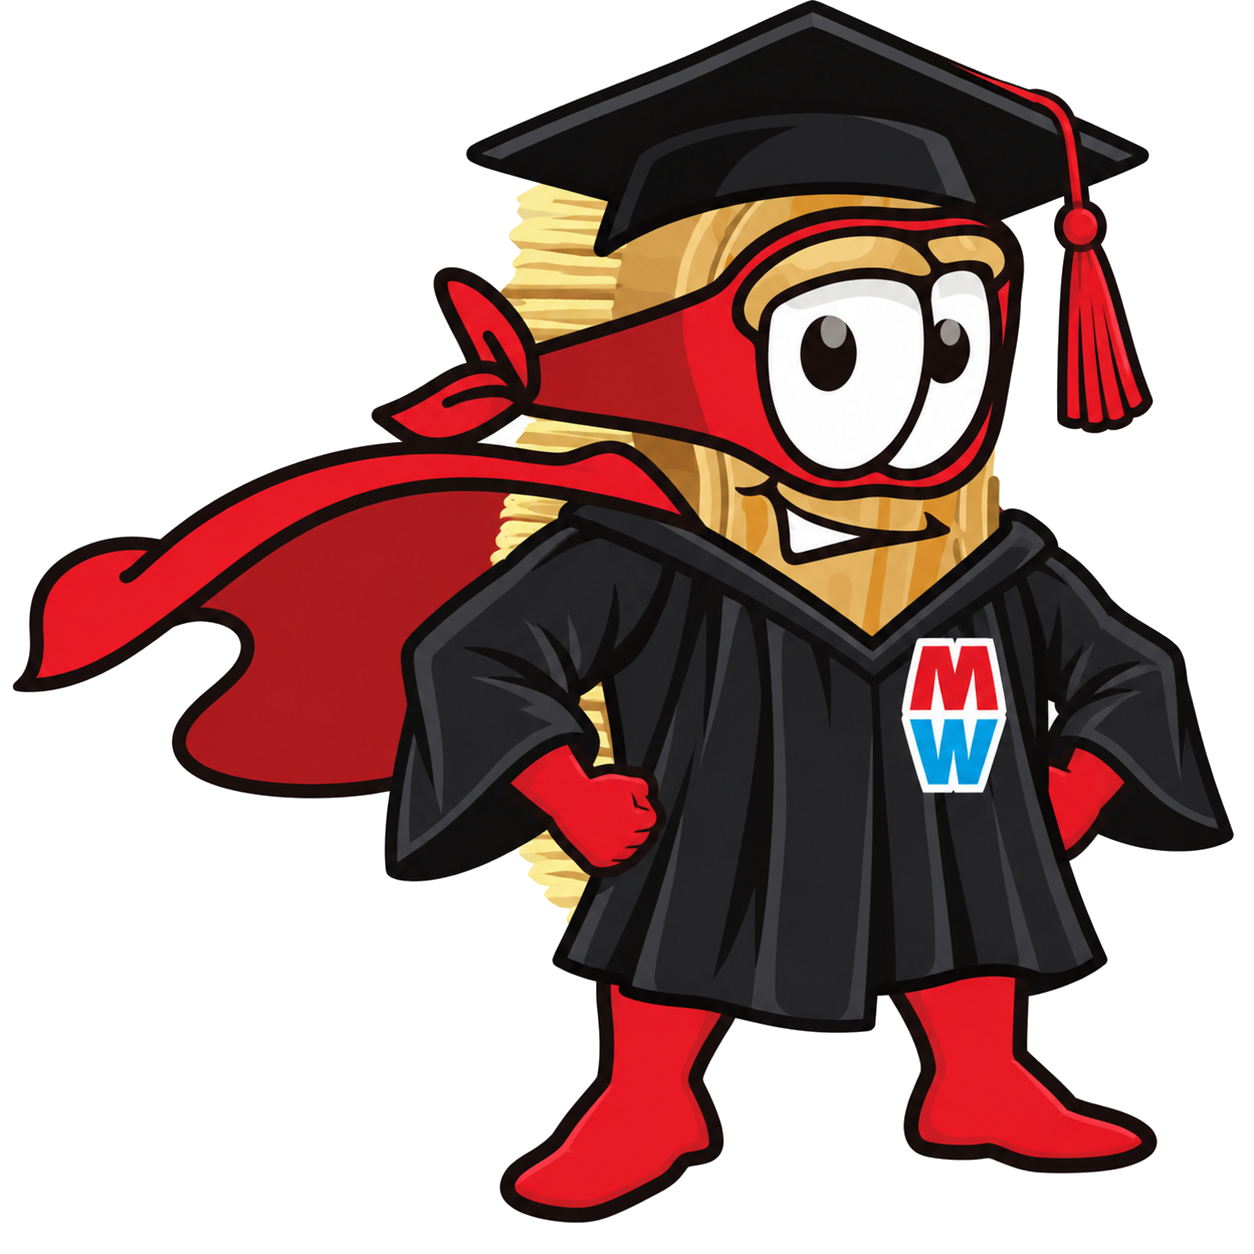
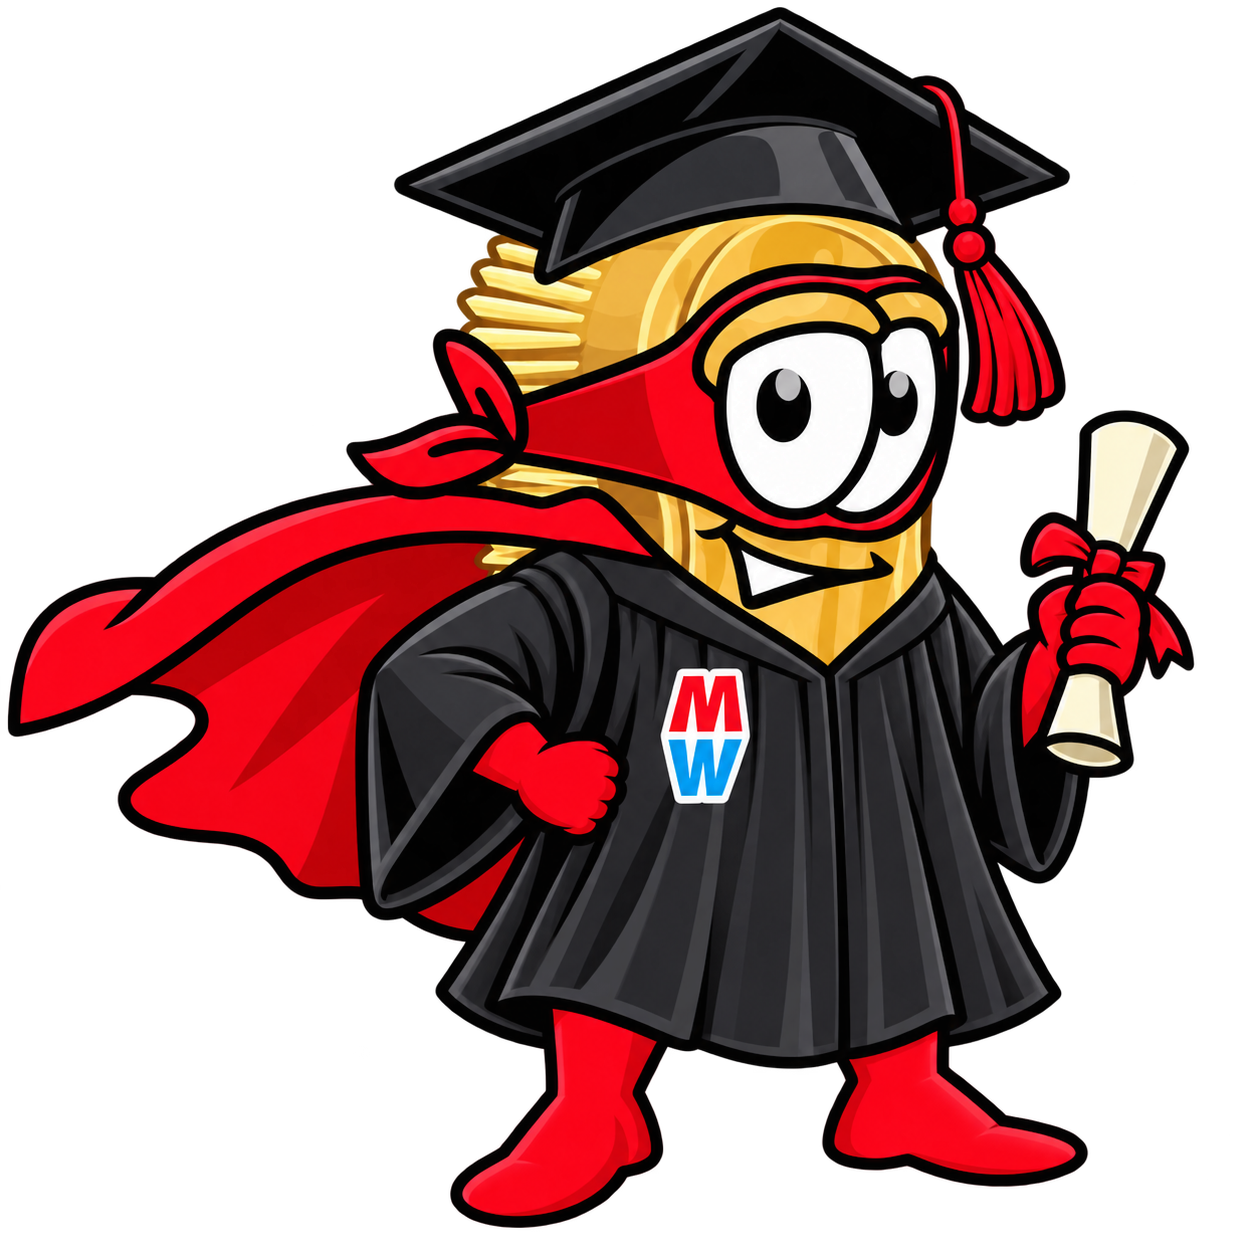
Rename Training to "Mighty Wash Academy" (MW) + new diploma mascot
- Per-account nav label override: navItemLabel() renders the Training
  item as "Mighty Wash Academy" for the Mighty Wash account across the
  sidebar, mobile menu, command palette, bottom-bar picker, and search;
  other tenants keep "Training". Page header title matches.
- Swap the header mascot for the new graduate-with-diploma art (already
  transparent), replacing the previous version at the same path.

diff --git a/src/components/layout/Sidebar.tsx b/src/components/layout/Sidebar.tsx
@@ -91,6 +91,14 @@ type NavGroup = {
   roles?: PermRole[]
 }
 
+// Per-account display-name overrides for specific nav items. The label stored in
+// NAV_GROUPS is the default for every other account.
+const ACADEMY_ACCOUNT_ID = '54f3e299-1f61-4ed2-9921-3d02160b72e6' // Mighty Wash
+export function navItemLabel(item: Pick<NavItem, 'to' | 'label'>, accountId: string | null | undefined): string {
+  if (item.to === '/app/training' && accountId === ACADEMY_ACCOUNT_ID) return 'Mighty Wash Academy'
+  return item.label
+}
+
 export const NAV_GROUPS: NavGroup[] = [
   {
     label: 'Overview',
@@ -634,7 +642,7 @@ export function SidebarNav({
           const groupHit = g.label.toLowerCase().includes(q)
           const filteredItems = groupHit
             ? g.items
-            : g.items.filter((i) => i.label.toLowerCase().includes(q))
+            : g.items.filter((i) => navItemLabel(i, profile?.account_id).toLowerCase().includes(q))
           return { ...g, items: filteredItems }
         })
         .filter((g) => g.items.length > 0)
@@ -687,8 +695,8 @@ export function SidebarNav({
                 to={item.to}
                 end={item.to === '/app/dashboard'}
                 onClick={onNavigate}
-                title={item.label}
-                aria-label={item.label}
+                title={navItemLabel(item, profile?.account_id)}
+                aria-label={navItemLabel(item, profile?.account_id)}
               >
                 {({ isActive }) => (
                   <span
@@ -781,7 +789,7 @@ export function SidebarNav({
                           >
                             <item.icon className="size-[18px]" strokeWidth={2.25} />
                           </span>
-                          {item.label}
+                          {navItemLabel(item, profile?.account_id)}
                         </span>
                       )}
                     </NavLink>
@@ -836,7 +844,7 @@ export function useVisibleNavItems(role: PermRole): VisibleNavItem[] {
     (!i.emails || i.emails.includes((profile?.email ?? '').toLowerCase()))
   return NAV_GROUPS
     .filter((g) => permRoleInList(role, g.roles))
-    .flatMap((g) => g.items.filter(visible).map((i) => ({ to: i.to, label: i.label, icon: i.icon, group: g.label })))
+    .flatMap((g) => g.items.filter(visible).map((i) => ({ to: i.to, label: navItemLabel(i, profile?.account_id), icon: i.icon, group: g.label })))
 }
 
 const COLLAPSE_KEY = 'tunnelsync.sidebarCollapsed'

diff --git a/src/components/layout/CommandPalette.tsx b/src/components/layout/CommandPalette.tsx
@@ -5,7 +5,7 @@ import { useAuth } from '@/lib/auth'
 import { useCompany } from '@/lib/company'
 import { pageAllowed, permRoleInList } from '@/lib/permissions'
 import { permRole } from '@/lib/rbac'
-import { NAV_GROUPS } from '@/components/layout/Sidebar'
+import { NAV_GROUPS, navItemLabel } from '@/components/layout/Sidebar'
 import { cn } from '@/lib/utils'
 
 // Cmd+K / Ctrl+K global jump-to-page. Searches across every nav item the
@@ -39,7 +39,7 @@ export function CommandPalette() {
           continue
         if (i.flag === 'gm_bonus' && !profile.gm_bonus_enabled) continue
         if (i.emails && !i.emails.includes((profile.email ?? '').toLowerCase())) continue
-        flat.push({ to: i.to, label: i.label, group: g.label })
+        flat.push({ to: i.to, label: navItemLabel(i, profile.account_id), group: g.label })
       }
     }
     return flat

diff --git a/src/features/people/training/TrainingPage.tsx b/src/features/people/training/TrainingPage.tsx
@@ -127,7 +127,7 @@ function Inner({ locationId }: { locationId: string }) {
   return (
     <div className="flex flex-col gap-5">
       <PageHeader
-        title="Training"
+        title={isMightyWash ? 'Mighty Wash Academy' : 'Training'}
         subtitle={
           isManager
             ? 'Training material, new-hire onboarding, and certifications for your team.'
